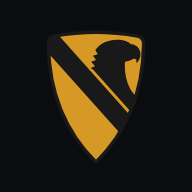
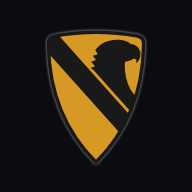
docs: README in corporate design, compact header stats
- README: generated banner with the crest, app screenshot, numbered
  sections, corporate design reference table, crest footer; menu name
  for the AI settings corrected
- scripts/brand-icons.sh also builds docs/brand/readme-banner.svg from
  the central crest, so a crest swap reaches the README too; crest gets
  a light rim on dark icon/banner backgrounds
- Header stats: one compact row without emojis and scrollbar; session
  and total hidden below 1440px

diff --git a/public/index.html b/public/index.html
@@ -40,23 +40,23 @@
                     </div>
                 </div>
                 <div class="stat-bubble hide-mobile" id="diff-bubble">
-                    <span class="stat-label">Niveau 🎚</span>
+                    <span class="stat-label">Niveau</span>
                     <span id="difficulty-val" class="stat-number">Mittel (Auto)</span>
                 </div>
                 <div class="stat-bubble hide-mobile">
-                    <span class="stat-label">Streak 🔥</span>
+                    <span class="stat-label">Streak</span>
                     <span id="streak-val" class="stat-number">0 Tage</span>
                 </div>
                 <div class="stat-bubble hide-mobile">
-                    <span class="stat-label">Session ⏱</span>
+                    <span class="stat-label">Session</span>
                     <span id="session-time" class="stat-number">00:00</span>
                 </div>
                 <div class="stat-bubble hide-mobile">
-                    <span class="stat-label">Beantwortet 📚</span>
+                    <span class="stat-label">Beantwortet</span>
                     <span id="total-q" class="stat-number">0</span>
                 </div>
                 <div class="modern-stat-panel hide-mobile" id="daily-stat-bubble">
-                    <div class="stat-header">Heute 🎯</div>
+                    <div class="stat-header">Heute</div>
                     <div class="stat-metrics">
                         <div class="metric"><span class="m-label">Fragen</span><span id="daily-q" class="m-val">0</span></div>
                         <div class="metric"><span class="m-label">Richtig</span><span id="daily-r" class="m-val">0</span></div>

diff --git a/public/css/styles.css b/public/css/styles.css
@@ -1609,3 +1609,37 @@ body.is-admin .admin-only { display: block !important; }
     caret-color: var(--dis-text);
 }
 .kali-shell textarea#user-answer:focus { background: transparent; box-shadow: none; border: 0; }
+
+/* --- Header stats: one compact row inside the brand bar --- */
+.app-header .quick-stats { gap: 8px; align-items: center; overflow: hidden; scrollbar-width: none; }
+.app-header .quick-stats::-webkit-scrollbar { display: none; }
+.app-header .stat-bubble,
+.app-header .modern-stat-panel,
+.app-header .player-profile {
+    height: 44px;
+    min-height: 0;
+    padding: 0 12px;
+    border-radius: var(--dis-radius-md);
+    box-shadow: none;
+}
+.app-header .stat-bubble { min-width: 0; align-items: flex-start; }
+.app-header .stat-label,
+.app-header .m-label,
+.app-header .modern-stat-panel .stat-header {
+    font-size: 0.62rem;
+    letter-spacing: 0.12em;
+    text-transform: uppercase;
+    color: var(--dis-text-3);
+    line-height: 1.2;
+}
+.app-header .stat-number,
+.app-header .m-val { font-size: 0.88rem; font-weight: 600; line-height: 1.3; }
+.app-header .modern-stat-panel { flex-direction: row; align-items: center; gap: 12px; min-width: 0; }
+.app-header .modern-stat-panel .stat-header { border: 0; padding: 0; margin: 0; }
+.app-header .stat-metrics { gap: 12px; }
+.app-header .metric { align-items: flex-start; }
+@media (max-width: 1440px) {
+    /* keep rank, level, streak and today; drop session time and total */
+    .app-header .quick-stats > :nth-child(4),
+    .app-header .quick-stats > :nth-child(5) { display: none; }
+}

diff --git a/README.md b/README.md
@@ -1,26 +1,40 @@
 <div align="center">
-  <img src="public/img/brand/wappen.svg" alt="Wappen" width="120">
-  
-  # Linux Bootcamp PWA
-  
-  **Eine interaktive, KI-gestützte Lernplattform (Progressive Web App) für angehende Linux-Administratoren.** <br>
-  *Lerne Kommandozeilen, Konfigurationen und Server-Basics spielerisch durch ein XP- und Ränge-System.*
+
+<img src="docs/brand/readme-banner.svg" alt="Linux Bootcamp – deltaInfoSec Training" width="100%">
+
+<br>
+
+**Interaktive, KI-gestützte Lernplattform (PWA) für angehende Linux-Administratoren.**<br>
+<sub>Kommandozeile, Konfiguration und Server-Grundlagen. Mit XP, Rängen und Klausur-Modus.</sub>
+
+<br>
+
+[`Features`](#01-features) · [`Installation`](#02-installation--deployment) · [`Struktur`](#03-projektstruktur) · [`Corporate Design`](#04-corporate-design) · [`Sicherheit`](#05-sicherheit) · [`KI`](#07-ki-integration-einrichten)
+
 </div>
 
----
+<br>
 
-## Features
-
-- **KI-Tutor Integration:** Verknüpfbar mit Google Gemini, OpenAI oder lokalen LLMs (Ollama), um falsch beantwortete Fragen detailliert und verständlich im "Ausbilder-Ton" zu erklären.
-- **Klausur-Modus:** Simuliert eine echte IHK-Prüfungssituation (45 Minuten Timer, 24 Fragen quer durch alle Kategorien, automatische Notenberechnung von 1 bis 6).
-- **Gamification & Ränge:** Sammle XP durch korrekte Antworten, halte deine Streak und steige im Dienstgrad auf (von *Schütze* bis *General* – basierend auf den Bundeswehr-Dienstgraden).
-- **Progressive Web App (PWA):** Kann als native App auf Android, iOS oder dem Desktop installiert werden. Funktioniert auch bei schlechter Internetverbindung dank Service Worker Caching.
-- **Admin-Konsole:** Integriertes Lehrer-Pult zur Verwaltung von Benutzern, Rechten und zur Einsicht aller absolvierten Schüler-Klausuren.
-- **Docker-Ready:** Vollständig isoliertes Setup für sekundenschnelles Deployment auf jedem Linux-Server.
+<p align="center">
+  <img src="docs/brand/screenshot-quiz.png" alt="Quiz-Ansicht im deltaInfoSec Corporate Design" width="100%">
+</p>
 
 ---
 
-## Installation & Deployment
+## `01` Features
+
+| Modul | Beschreibung |
+|---|---|
+| **KI-Tutor** | Erklärt falsch beantwortete Fragen ausführlich im Ausbilder-Ton. Anbindung an Google Gemini, OpenAI, Groq, xAI, Together oder ein lokales Ollama. |
+| **Klausur-Modus** | Simuliert eine IHK-Prüfung: 45 Minuten, 24 Fragen quer durch alle Kategorien, Note 1 bis 6. |
+| **Ränge** | XP für richtige Antworten, Streaks und Dienstgrade von *Schütze* bis *General* (angelehnt an die Bundeswehr). |
+| **PWA** | Installierbar auf Android, iOS und Desktop. Läuft dank Service Worker auch bei schlechter Verbindung. |
+| **Admin-Konsole** | Benutzer und Rechte verwalten, alle abgelegten Klausuren einsehen, Inhalte pflegen. |
+| **Docker** | Isoliertes Setup, das mit einem Skript auf jedem Linux-Server läuft. |
+
+---
+
+## `02` Installation & Deployment
 
 ### Voraussetzungen
 - Ein Linux mit apt (Debian, Ubuntu, Raspberry Pi OS, Kali), `git` und `sudo`
@@ -157,7 +171,7 @@ npm start
 
 ---
 
-## Projektstruktur
+## `03` Projektstruktur
 
 ```
 ├── server/            Backend (Express)
@@ -175,6 +189,7 @@ npm start
 │   ├── img/brand/     wappen.svg (zentrales Wappen), App-Icons
 │   └── js/            theme, brand, boot, auth, core, questions, quiz, llm, stats, main, generator
 ├── scripts/           install.sh, tls.sh, brand-icons.sh, create-admin.js, healthcheck.js
+├── docs/brand/        README-Banner (Vorlage + erzeugt), Screenshot
 ├── tools/content/     Rohdaten für Fragen (werden nicht ausgeliefert)
 ├── data/              Laufzeitdaten (gitignored)
 ├── Dockerfile  docker-compose.yml  .env.example
@@ -182,9 +197,19 @@ npm start
 
 ---
 
-## Corporate Design
+## `04` Corporate Design
 
 Alle Seiten nutzen dieselbe Designschicht aus `public/css/brand.css` (Farben, Schriften, Kopfleiste, Hintergrund, Animationen) und `public/js/brand.js` (Matrix-Hintergrund, Text-Effekte). Standard ist das dunkle Design, unabhängig von der Systemeinstellung; ein helles lässt sich per Knopf wählen und wird gemerkt (`public/js/theme.js`). Alle Animationen entfallen bei „Bewegung reduzieren“.
+
+| Element | Vorgabe |
+|---|---|
+| Wappen | `public/img/brand/wappen.svg`, immer sichtbar oben links in der Kopfleiste |
+| Schrift | JetBrains Mono für alles, selbst gehostet |
+| Hintergrund | Graphit `#0a0c10`, feines Raster, Matrix-Regen nur am Rand |
+| Akzent | Wappen-Gold `#e2a83a` |
+| Technik | Matrix-Grün `#3fd68a` für Labels (`> …`), Prompts und Status |
+| Terminal | Root-Shell-Prompt `┌──(root㉿kali)-[~]` / `└─#` |
+| Ton | ruhig und technisch; keine Maskottchen, keine Effekthascherei |
 
 ### Wappen austauschen
 
@@ -192,7 +217,7 @@ Das Wappen liegt an genau einer Stelle: `public/img/brand/wappen.svg`. Alle Seit
 
 1. `public/img/brand/wappen.svg` durch das neue Wappen ersetzen (SVG, transparenter Hintergrund).
 2. Hat es andere Proportionen, in `public/css/brand.css` den Wert `--dis-crest-ratio` (Breite / Höhe) anpassen.
-3. App-Icons neu erzeugen: `./scripts/brand-icons.sh`
+3. App-Icons und README-Banner neu erzeugen: `./scripts/brand-icons.sh`
 
 Der Service Worker lädt Wappen und Design-Dateien immer zuerst aus dem Netz, installierte Apps sehen das neue Wappen also ohne Versionssprung.
 
@@ -222,7 +247,7 @@ Farben und Schriften stehen als CSS-Variablen (`--dis-*`) in `brand.css` bereit.
 
 ---
 
-## Sicherheit
+## `05` Sicherheit
 
 - Ausgeliefert wird nur `public/`. Datenbank, Secrets und Server-Code sind nicht über HTTP erreichbar.
 - Passwörter werden mit bcrypt gehasht, Recovery-Codes mit HMAC. Gespeicherte LLM-API-Keys sind mit AES-256-GCM verschlüsselt.
@@ -233,19 +258,19 @@ Farben und Schriften stehen als CSS-Variablen (`--dis-*`) in `brand.css` bereit.
 
 ---
 
-## Technologie-Stack
+## `06` Technologie-Stack
 
-- **Frontend:** Vanilla JavaScript, HTML5, CSS3 (Kein Framework-Overhead!)
+- **Frontend:** Vanilla JavaScript, HTML5, CSS3, ohne Framework
 - **Backend:** Node.js, Express
-- **Datenbank:** SQLite (`bootcamp.db` – extrem portabel und leichtgewichtig)
+- **Datenbank:** SQLite (`bootcamp.db`, portabel und leichtgewichtig)
 - **Authentifizierung:** JWT (JSON Web Tokens) & Bcrypt
 - **Architektur:** Client-Server, PWA (Manifest & Service Worker)
 
 ---
 
-## KI-Integration einrichten
+## `07` KI-Integration einrichten
 
-Im Menü unter **"Einstellungen"** kannst du deinen bevorzugten LLM-Anbieter auswählen:
+In der Seitenleiste unter **KI-Bewertung (API)** wählst du den LLM-Anbieter:
 1. **Google Gemini (Empfohlen):** Füge deinen Gemini API Key ein.
 2. **OpenAI:** Nutze `gpt-6-luna` oder ähnliche Modelle mit deinem OpenAI Key.
 3. **Groq Cloud:** Kostenloser Zugang mit Rate-Limits, Schlüssel unter console.groq.com. Voreingestellt ist `openai/gpt-oss-120b`.
@@ -253,6 +278,13 @@ Im Menü unter **"Einstellungen"** kannst du deinen bevorzugten LLM-Anbieter aus
 
 ---
 
-## Lizenz
+## `08` Lizenz
 
 Dieses Projekt ist Open-Source und für Bildungszwecke konzipiert.
+
+<br>
+
+<div align="center">
+  <img src="public/img/brand/wappen.svg" alt="Wappen" width="44"><br>
+  <sub><code>&gt; deltaInfoSec · Linux Bootcamp</code></sub>
+</div>
